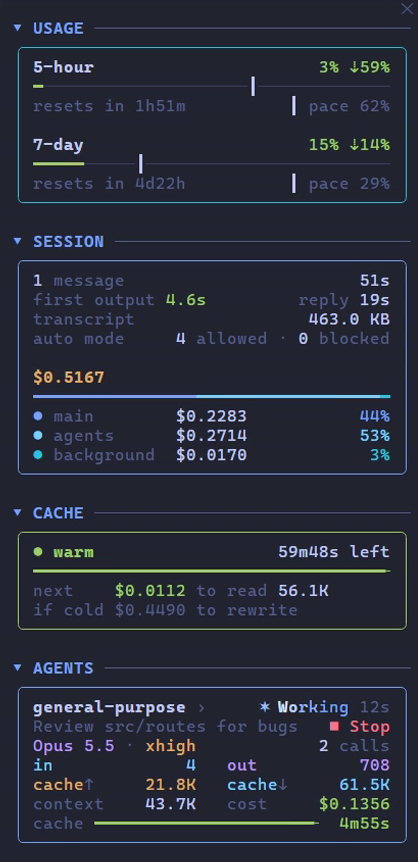
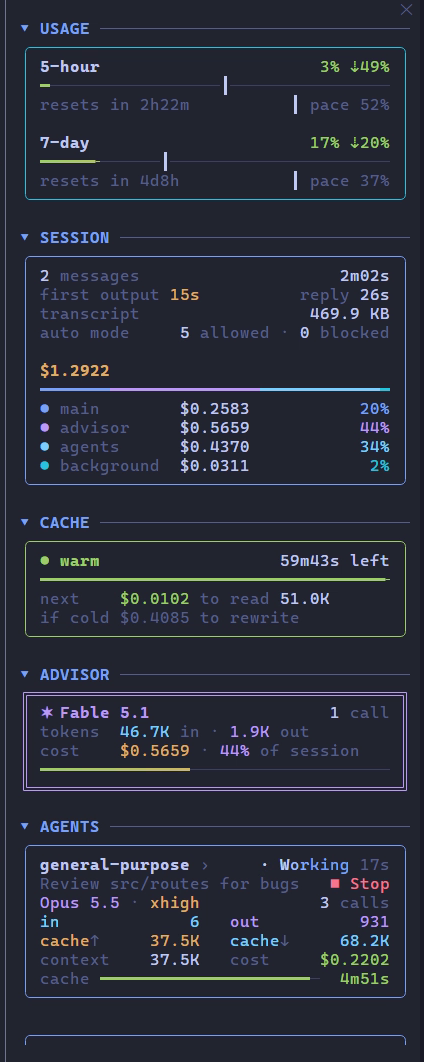
Redo the README GIFs and give each panel card its own section
README:
- Give Usage, Session, Cache and Advisor a section each, with a still
  or a short GIF, in place of the panel's table
- Show both ways back from an agent's transcript in the Agents section,
  and the drag among the panel's keys

Assets:
- Record hero.gif and themes.gif again without Claude Code's own agent
  rows under the prompt; the hero now opens an agent's transcript and
  goes back by its name
- Add agents-view.gif, session.gif, cache.gif, usage.png and
  advisor.png; panel.png now shows the advisor card
- Black out the user's name where the agent view shows the working
  folder in the prompt Claude wrote for the agent

Changed region(s): [[0.0311, 0.0, 0.9952, 0.9954], [0.5909, 0.0905, 0.622, 0.1206]]

diff --git a/README.md b/README.md
@@ -6,7 +6,7 @@
 Live telemetry above your prompt, a side panel for cost, cache and agents,<br>
 and fourteen themes that repaint all of Claude Code.
 
-<img src="assets/hero.gif" alt="pitwall: the box above the prompt and the side panel while Claude and two subagents work" width="100%">
+<img src="assets/hero.gif" alt="pitwall: the box above the prompt and the side panel while two subagents work, one agent's transcript opened from its card, and the panel resized" width="100%">
 
 [Install](#install) · [The box](#the-box) · [The panel](#the-side-panel) · [Agents](#agents) · [Themes](#themes) · [Settings](#settings)
 
@@ -76,26 +76,50 @@ Click the model or the effort to open its picker, pick, and `✓ Confirm`.
 
 Docks beside the transcript in fullscreen mode. Open it with `/sidebar` or `SIDEBAR ›`.
 
-| Card | Shows |
-|------|-------|
-| **Usage** | 5-hour and 7-day limits, a pace tick, time to reset |
-| **Session** | Messages, turn times, transcript size, total cost and its split |
-| **Cache** | Warm or cold, the countdown, the next message's cost |
-| **Advisor** | Calls, tokens, cost and share |
-| **Agents** | A card per subagent |
-
-Click a section's name to fold it to one line.
+It holds a card each for usage, the session, the cache, the advisor and every subagent. Click a section's name to fold it to one line.
 
 <br clear="right">
 
 <details>
 <summary>Keys and sizing</summary>
 
-- `ctrl+x ←` / `ctrl+x →` resize it, `ctrl+x x` closes it.
+- Drag its edge, or `ctrl+x ←` / `ctrl+x →`, to resize it; `ctrl+x x` closes it.
 - Needs fullscreen mode (`"tui": "fullscreen"`) and 110 columns or more.
 - At any width each card keeps its rows on one line.
 
 </details>
+
+### Usage
+
+<img align="right" src="assets/usage.png" alt="The usage card: the 5-hour and 7-day limits with their pace ticks" width="38%">
+
+Your 5-hour and 7-day rate limits: how much is used, and when each window resets. The tick marks an even pace through the window, so a bar past its tick is spending faster than the limit lasts.
+
+<br clear="right">
+
+### Session
+
+<img align="right" src="assets/session.gif" alt="The session card while two subagents start: the total cost climbs and its split moves toward agents" width="38%">
+
+Messages, time to first output and to the full reply, transcript size, and auto mode's allowed and blocked calls. Then the session's cost, split between the main conversation, the advisor, subagents and background work, moving as each request lands.
+
+<br clear="right">
+
+### Cache
+
+<img align="right" src="assets/cache.gif" alt="The cache card counting down, then resetting when a message is sent" width="38%">
+
+Whether the prompt cache is warm and how long until it goes cold. **next** is what your next message pays to read it; **if cold**, what it would pay to write it again. Every request resets the countdown.
+
+<br clear="right">
+
+### Advisor
+
+<img align="right" src="assets/advisor.png" alt="The advisor card: its model, one call, tokens in and out, cost and share of the session" width="38%">
+
+Appears once Claude consults the advisor: its model, calls, tokens, cost and share of the session. A subagent's advisor calls count here too.
+
+<br clear="right">
 
 ## Agents
 
@@ -104,10 +128,13 @@ Click a section's name to fold it to one line.
 Every subagent gets a card: its task, model, effort, tokens, cost and cache countdown, live while it works.
 
 - **■ Stop**, then **■ Confirm**, stops a running agent.
-- **Click its name** to watch its transcript; **‹ main conversation** goes back.
 - **✕ dismiss** clears a finished one. They also leave on their own after a minute, and slide back in if Claude resumes them.
 
 <br clear="right">
+
+**Click an agent's name** to open its transcript in the main view. **‹ main conversation** at the top of the panel goes back, and so does clicking its name again.
+
+<img src="assets/agents-view.gif" alt="Opening each agent's transcript from its card, then going back by the main conversation row and by the agent's name" width="100%">
 
 ## Themes
 
